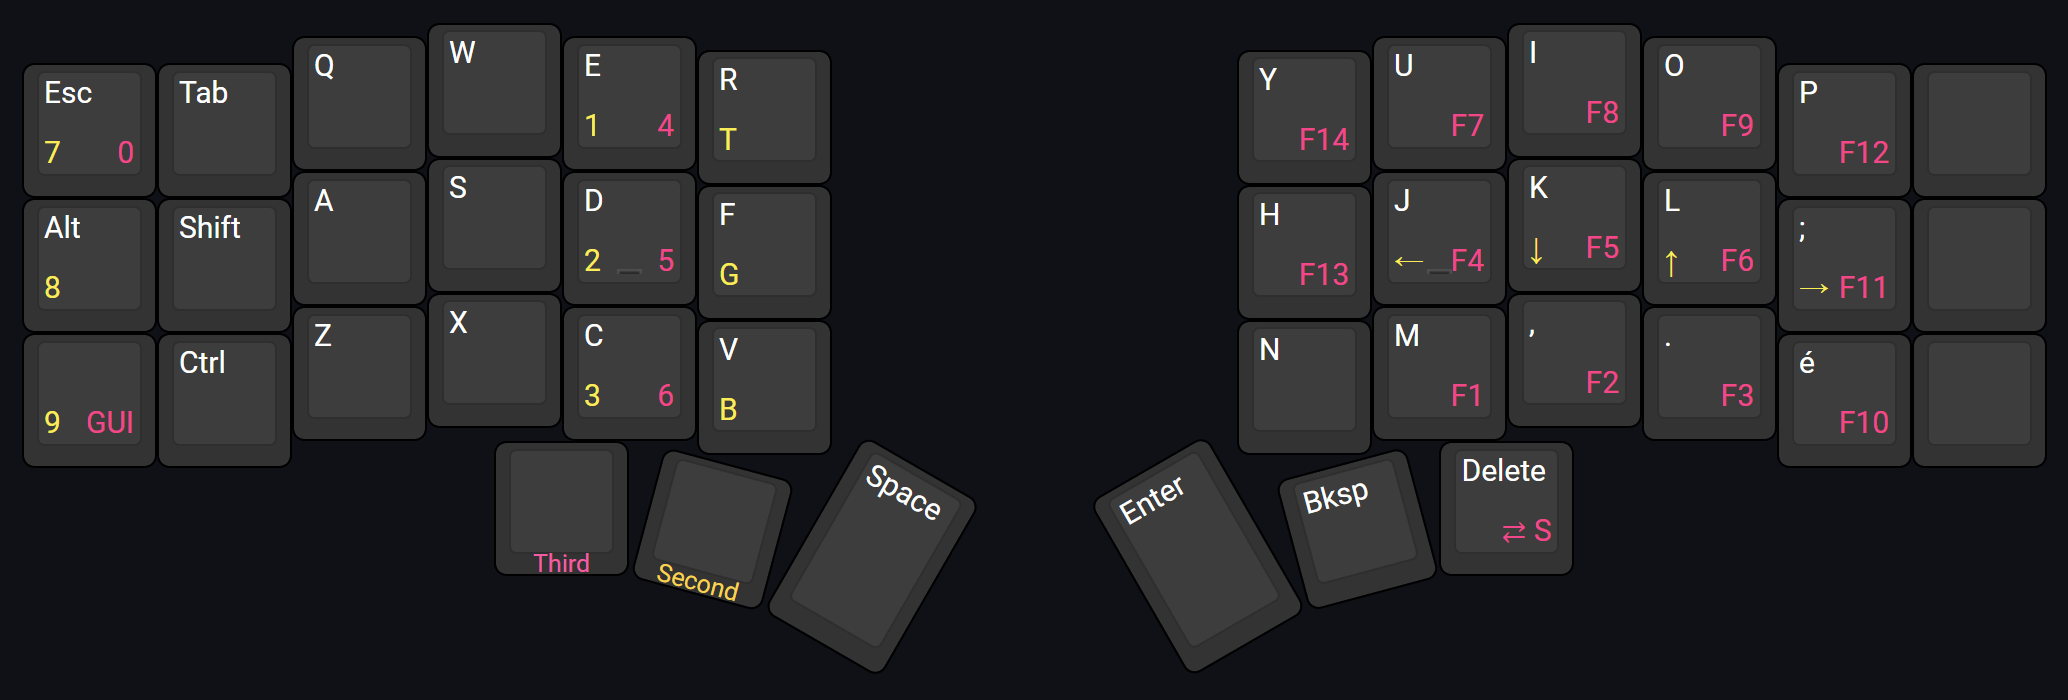
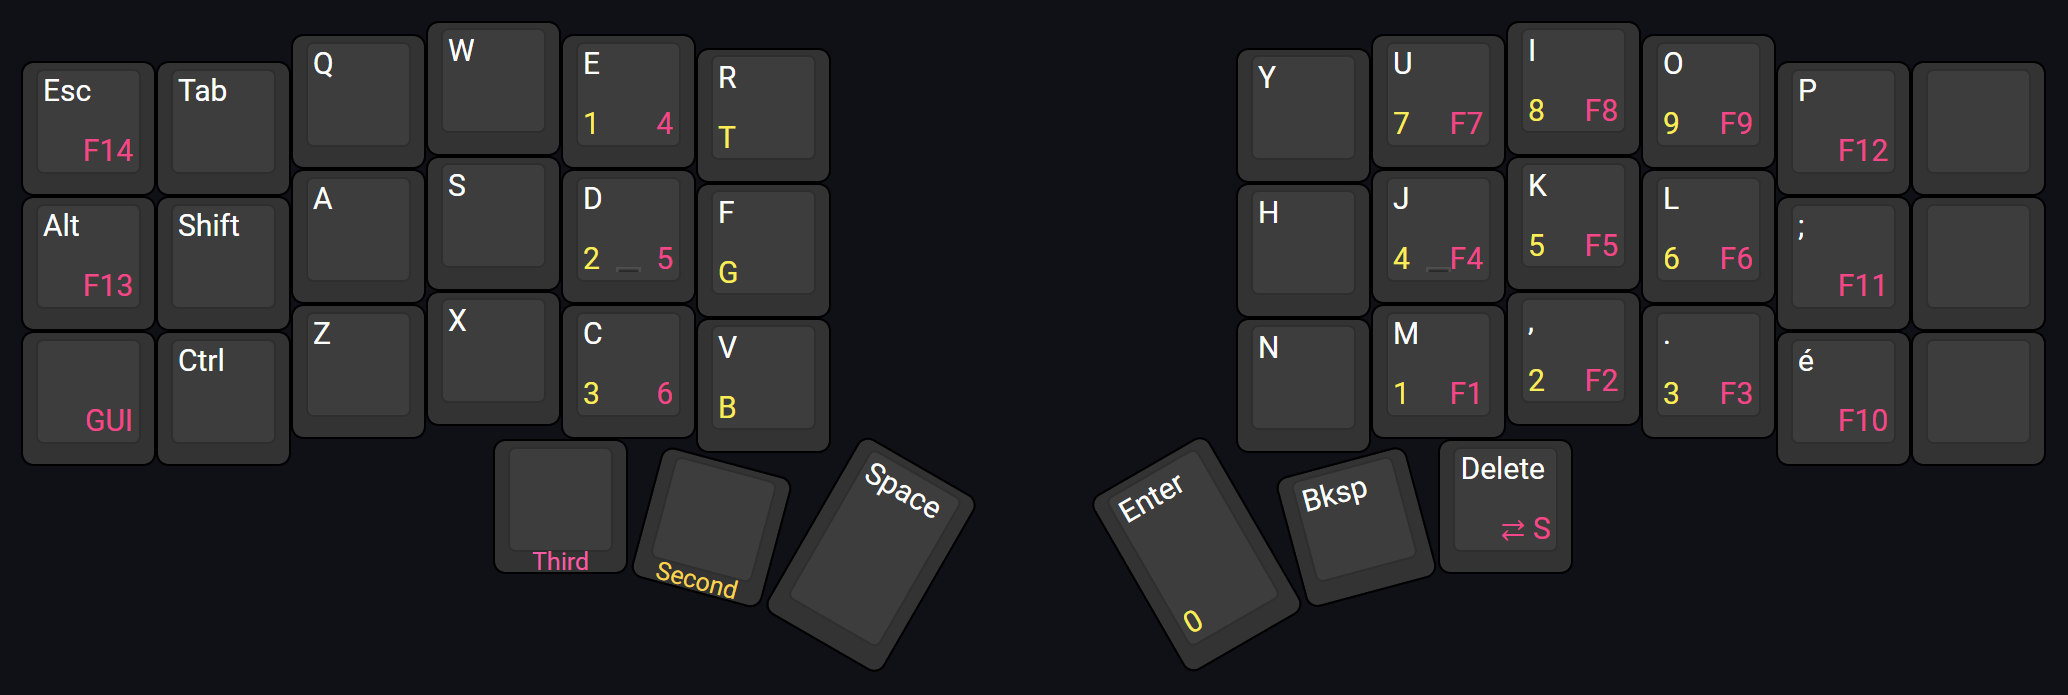
chore: cleanup

diff --git a/README.md b/README.md
@@ -27,7 +27,7 @@ Some macros have been used for symbols because of an issue when using Windows RD
 ### Gaming Layers
 
 ![Gaming layers preview](img/gaming-keymap.png)
-*Layout preview generated on [keyboard-layout-editor.com](http://www.keyboard-layout-editor.com/#/gists/a5d4f2d4acfef0bab9bb97ac0ff3e05e)*
+*Layout preview generated on [keyboard-layout-editor.com](http://www.keyboard-layout-editor.com/#/gists/9b497751bc9a9fc18a86e876f723288d)*
 
 To avoid having to remap every game because of Colemak-DH layout, the gaming layers are setup with QWERTY. The catch: the lefthand side is shifted right by one key to center the navigation keys (WASD) on the home row keys. This leads to better ergonomy at the expense of key compromises: some alpha keys are repositioned on another layer.
 
